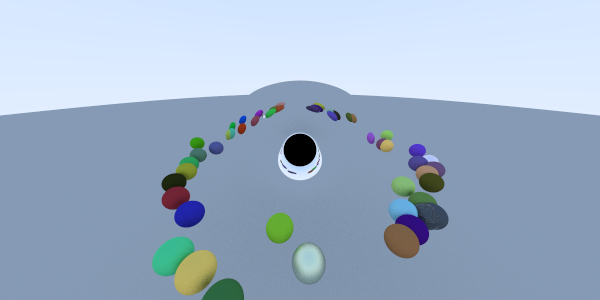
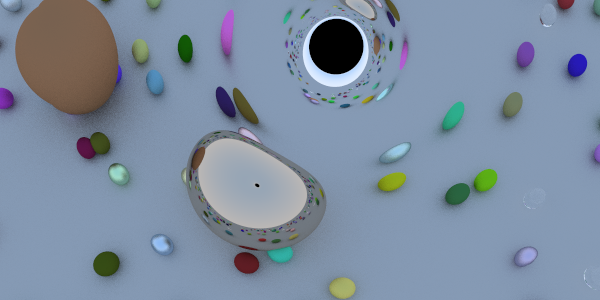
Organized files more

diff --git a/raytracing/raytracing/src/utils/scenes.h b/raytracing/raytracing/src/utils/scenes.h
@@ -1,14 +1,9 @@
 #pragma once
-#include "RayMath/sphere.h"
-#include "RayMath/lambertian.h"
+#include "raytracing/raytracinginclude.h"
 #include "utils.h"
-#include "RayMath/metal.h"
-#include "RayMath/dielectric.h"
-#include "RayMath/blackhole.h"
-#include "RayMath/hitablelist.h"
 #include <vector>
 
-Hitable* RandomScene(Camera& cam, int nx, int ny) {
+Hitable* RandomScene2(Camera& cam, int nx, int ny) {
     int n = 50;
     std::vector<Hitable*>* list = new std::vector<Hitable*>();
     list->reserve(500);
@@ -30,8 +25,6 @@ Hitable* RandomScene(Camera& cam, int nx, int ny) {
         }
 
     }
-    //list->push_back(new Sphere(Eigen::Vector3f(0, 1, 0), 1.0f, new Metal(Eigen::Vector3f(0.7f, 0.6f, 0.5f), 0)));
-    //list->push_back(new Sphere(Eigen::Vector3f(-4, 1, 0), 1.0f, new Lambertian(Eigen::Vector3f(0.4f, 0.2f, 0.1f))));
     float blackHoleSize = 2.f;
     list->push_back(new Sphere(Eigen::Vector3f(0, 0, 0), blackHoleSize, new BlackHole(0.09f, blackHoleSize, 1000, 0.01f, 0.0020f)));
 
@@ -43,6 +36,47 @@ Hitable* RandomScene(Camera& cam, int nx, int ny) {
     cam = Camera(lookFrom, lookAt, Eigen::Vector3f(0, 1, 0), 90, float(nx) / float(ny), aperture, distanceToFocus);
 
     return new HitableList(list->data(), (int)list->size());
+}
+
+Hitable* RandomScene(Camera& cam, int nx, int ny) {
+    int n = 500;
+    Hitable** list = new Hitable * [n + 1];
+    list[0] = new Sphere(Eigen::Vector3f(0, -1000, 0), 1000, new Lambertian(Eigen::Vector3f(0.5, 0.5, 0.5)));
+    int i = 1;
+    for (int a = -11; a < 11; a++) {
+        for (int b = -11; b < 11; b++) {
+            float chooseMat = Random();
+            if (chooseMat < 0.4)
+                continue;
+            Eigen::Vector3f center(a + 0.9 * Random(), 0.2, b + 0.9 * Random());
+            if ((center - Eigen::Vector3f(4, 0.2, 0)).norm() > 0.9) {
+                if (chooseMat < 0.8) { // diffuse
+                    list[i++] = new Sphere(center, 0.2,
+                        new Lambertian(Eigen::Vector3f(Random() * Random(), Random() * Random(), Random() * Random())));
+                }
+                else if (chooseMat < 0.95) { // metal
+                    list[i++] = new Sphere(center, 0.2,
+                        new Metal(Eigen::Vector3f(0.5 * ((double)1 + Random()), 0.5 * ((double)1 + Random()), 0.5 * ((double)1 + Random())), 0.5 * ((double)1 + Random())));
+                }
+                else { // glass
+                    list[i++] = new Sphere(center, 0.2, new Dielectric(1.5));
+                }
+            }
+        }
+    }
+    list[i++] = new Sphere(Eigen::Vector3f(0, 1, 0), 1.0, new Metal(Eigen::Vector3f(0.7, 0.6, 0.5), 0));
+    list[i++] = new Sphere(Eigen::Vector3f(-4, 1, 0), 1.0, new Lambertian(Eigen::Vector3f(0.4, 0.2, 0.1)));
+    float blackHoleSize = 2.f;
+    list[i++] = new Sphere(Eigen::Vector3f(1, 5, 0), blackHoleSize, new BlackHole(0.09, blackHoleSize, 1000, 0.01, 0.0008));
+
+    // Defining the camera
+    Eigen::Vector3f lookFrom(2, 8, 2);
+    Eigen::Vector3f lookAt(0, 0, -1);
+    float distanceToFocus = (lookFrom - lookAt).norm();
+    float aperture = 0.0;
+    cam = Camera(lookFrom, lookAt, Eigen::Vector3f(0, 1, 0), 35, float(nx) / float(ny), aperture, distanceToFocus);
+
+    return new HitableList(list, i);
 }
 
 Hitable* SimpleScene(Camera& cam, int nx, int ny) {

diff --git a/raytracing/raytracing/src/application.cpp b/raytracing/raytracing/src/application.cpp
@@ -5,51 +5,9 @@
 #include <thread>
 #include <stb/stb_image_write.h>
 
-#include "RayMath/hitablelist.h"
-#include "RayMath/sphere.h"
-#include "RayMath/camera.h"
-#include "utils.h"
-#include "RayMath/material.h"
-#include "RayMath/metal.h"
-#include "RayMath/lambertian.h"
-#include "RayMath/dielectric.h"
-#include "RayMath/blackhole.h"
-#include "scenes.h"
-#include "RayMath/raytracer.h"
-
-
-void Render(int nx, int nyStart, int nyEnd, int ny, int ns, int numChannels, Camera* cam, Hitable* scene, unsigned char* imageData, bool printProgress = false)
-{
-    for (int j = nyStart; j < nyEnd; j++)
-    {
-        if (printProgress && j % 2 == 0)
-            std::cout << "progress: " << (float)(j - nyStart) / (nyEnd - nyStart) << std::endl;
-        for (int i = 0; i < nx; i++)
-        {
-            Eigen::Vector3f color(0, 0, 0);
-            for (int s = 0; s < ns; s++) {
-                float u = float(i + (((double)rand()) / RAND_MAX)) / float(nx);
-                float v = float(j + (((double)rand()) / RAND_MAX)) / float(ny);
-
-                Ray r = cam->GetRay(u, v);
-
-                color += TraceRay(r, scene, 0);
-            }
-
-            color /= float(ns);
-            color = Eigen::Vector3f(sqrt(color[0]), sqrt(color[1]), sqrt(color[2]));
-            int ir = int(255.99 * color[0]);
-            int ig = int(255.99 * color[1]);
-            int ib = int(255.99 * color[2]);
-            // Write color data into array
-            int index = ((ny - j - 1) * nx + i) * numChannels;
-            imageData[index + 0] = unsigned char(ir); // R
-            imageData[index + 1] = unsigned char(ig); // G
-            imageData[index + 2] = unsigned char(ib); // B
-            imageData[index + 3] = unsigned char(255); // A
-        }
-    }
-}
+#include "raytracing/raytracinginclude.h"
+#include "utils/utils.h"
+#include "utils/scenes.h"
 
 
 int main()

diff --git a/raytracing/raytracing/src/raytracing/raytracingrenderer.h b/raytracing/raytracing/src/raytracing/raytracingrenderer.h
@@ -1,0 +1,36 @@
+#pragma once
+#include "raytracing/raytracinginclude.h"
+
+
+void Render(int nx, int nyStart, int nyEnd, int ny, int ns, int numChannels, Camera* cam, Hitable* scene, unsigned char* imageData, bool printProgress = false)
+{
+    for (int j = nyStart; j < nyEnd; j++)
+    {
+        if (printProgress && j % 2 == 0)
+            std::cout << "progress: " << (float)(j - nyStart) / (nyEnd - nyStart) << std::endl;
+        for (int i = 0; i < nx; i++)
+        {
+            Eigen::Vector3f color(0, 0, 0);
+            for (int s = 0; s < ns; s++) {
+                float u = float(i + (((double)rand()) / RAND_MAX)) / float(nx);
+                float v = float(j + (((double)rand()) / RAND_MAX)) / float(ny);
+
+                Ray r = cam->GetRay(u, v);
+
+                color += TraceRay(r, scene, 0);
+            }
+
+            color /= float(ns);
+            color = Eigen::Vector3f(sqrt(color[0]), sqrt(color[1]), sqrt(color[2]));
+            int ir = int(255.99 * color[0]);
+            int ig = int(255.99 * color[1]);
+            int ib = int(255.99 * color[2]);
+            // Write color data into array
+            int index = ((ny - j - 1) * nx + i) * numChannels;
+            imageData[index + 0] = unsigned char(ir); // R
+            imageData[index + 1] = unsigned char(ig); // G
+            imageData[index + 2] = unsigned char(ib); // B
+            imageData[index + 3] = unsigned char(255); // A
+        }
+    }
+}

diff --git a/raytracing/raytracing/src/raytracing/hitables/sphere.h b/raytracing/raytracing/src/raytracing/hitables/sphere.h
@@ -1,7 +1,7 @@
 #pragma once
 
 #include "hitable.h"
-#include "material.h"
+#include "raytracing/materials/material.h"
 
 class Sphere : public Hitable {
 public:
@@ -9,7 +9,7 @@ public:
 	float radius;
     Material* matPtr;
 
-	Sphere() {}
+    Sphere() = default;
 	Sphere(Eigen::Vector3f cen, float r, Material* mat) : center(cen), radius(r), matPtr(mat) {};
 	virtual bool Hit(const Ray& r, float t_min, float t_max, HitRecord& record) const;
 };

diff --git a/raytracing/raytracing/src/raytracing/raytracinginclude.h b/raytracing/raytracing/src/raytracing/raytracinginclude.h
@@ -1,0 +1,13 @@
+#pragma once
+#include "raymath/ray.h"
+#include "hitables/hitable.h"
+#include "hitables/hitablelist.h"
+#include "hitables/sphere.h"
+#include "raymath/camera.h"
+#include "materials/material.h"
+#include "materials/metal.h"
+#include "materials/lambertian.h"
+#include "materials/dielectric.h"
+#include "materials/blackhole.h"
+#include "raymath/raytracer.h"
+#include "raytracingrenderer.h"

diff --git a/raytracing/raytracing/src/raytracing/raymath/camera.h b/raytracing/raytracing/src/raytracing/raymath/camera.h
@@ -1,6 +1,6 @@
 #pragma once
 
-#include "../utils.h"
+#include "utils/utils.h"
 #include "ray.h"
 #include <corecrt_math_defines.h>
 
@@ -14,7 +14,8 @@ public:
 	Eigen::Vector3f u, v, w;
 	float lensRadius;
 
-	Camera() {}
+	Camera() = default;
+
 	/// <summary>
 	/// Makes a camera
 	/// </summary>

diff --git a/raytracing/raytracing/src/raytracing/raymath/raytracer.h b/raytracing/raytracing/src/raytracing/raymath/raytracer.h
@@ -1,7 +1,7 @@
 #pragma once
 #include "ray.h"
-#include "hitablelist.h"
-#include "material.h"
+#include "raytracing/hitables/hitablelist.h"
+#include "raytracing/materials/material.h"
 
 
 Eigen::Vector3f TraceRay(const Ray& r, Hitable* scene, int depth) {

diff --git a/raytracing/raytracing/src/raytracing/hitables/hitablelist.h b/raytracing/raytracing/src/raytracing/hitables/hitablelist.h
@@ -7,7 +7,7 @@ public:
 	Hitable** list;
 	int listSize;
 
-	HitableList() {}
+	HitableList() = default;
 	HitableList(Hitable** l, int n) { list = l; listSize = n; }
 	virtual bool Hit(const Ray& r, float t_min, float t_max, HitRecord& record) const;
 };

diff --git a/raytracing/raytracing/src/raytracing/raymath/ray.h b/raytracing/raytracing/src/raytracing/raymath/ray.h
@@ -7,7 +7,7 @@ public:
 	Eigen::Vector3f A;
 	Eigen::Vector3f B;
 	
-	Ray() {}
+	Ray() = default;
 	Ray(const Eigen::Vector3f& a, const Eigen::Vector3f& b) { A = a; B = b; }
 
 	Eigen::Vector3f Origin() const { return A; }

diff --git a/raytracing/raytracing/src/raytracing/materials/material.h b/raytracing/raytracing/src/raytracing/materials/material.h
@@ -1,6 +1,6 @@
 #pragma once
-#include "ray.h"
-#include "hitable.h"
+#include "raytracing/raymath/ray.h"
+#include "raytracing/hitables/hitable.h"
 
 class Material {
 public:

diff --git a/raytracing/raytracing/src/raytracing/materials/dielectric.h b/raytracing/raytracing/src/raytracing/materials/dielectric.h
@@ -1,6 +1,6 @@
 #pragma once
 #include "material.h"
-#include "../utils.h"
+#include "utils/utils.h"
 
 class Dielectric : public Material {
 public:

diff --git a/raytracing/raytracing/src/raytracing/materials/lambertian.h b/raytracing/raytracing/src/raytracing/materials/lambertian.h
@@ -1,6 +1,6 @@
 #pragma once
 #include "material.h"
-#include "../utils.h"
+#include "utils/utils.h"
 
 class Lambertian : public Material {
 public:
